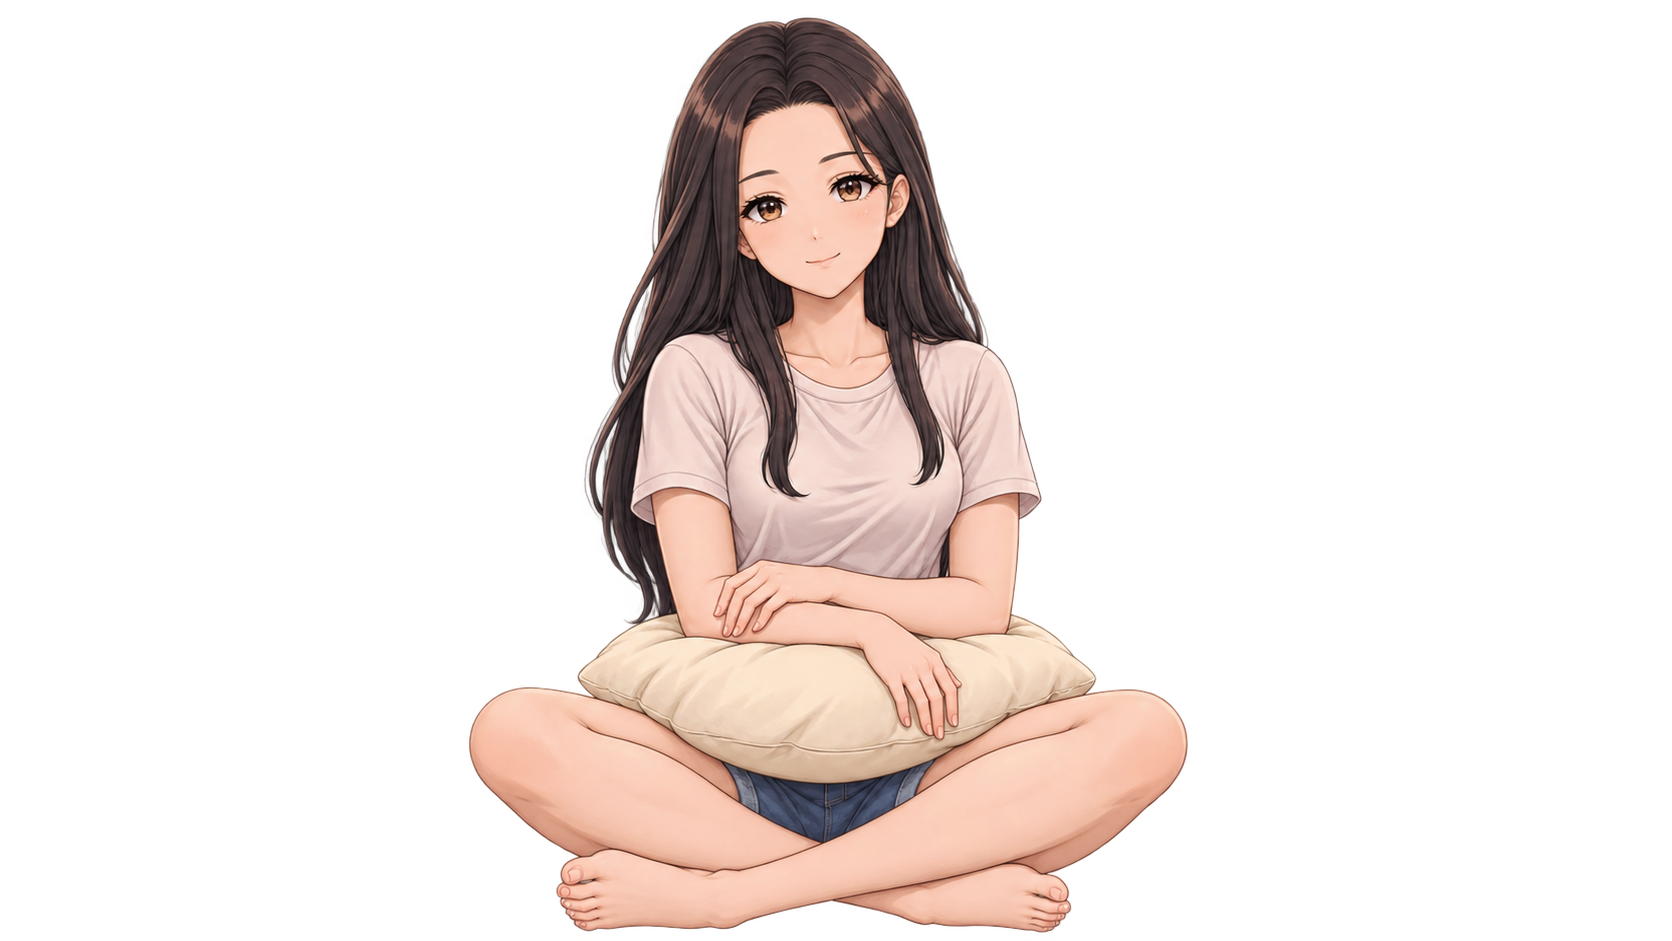
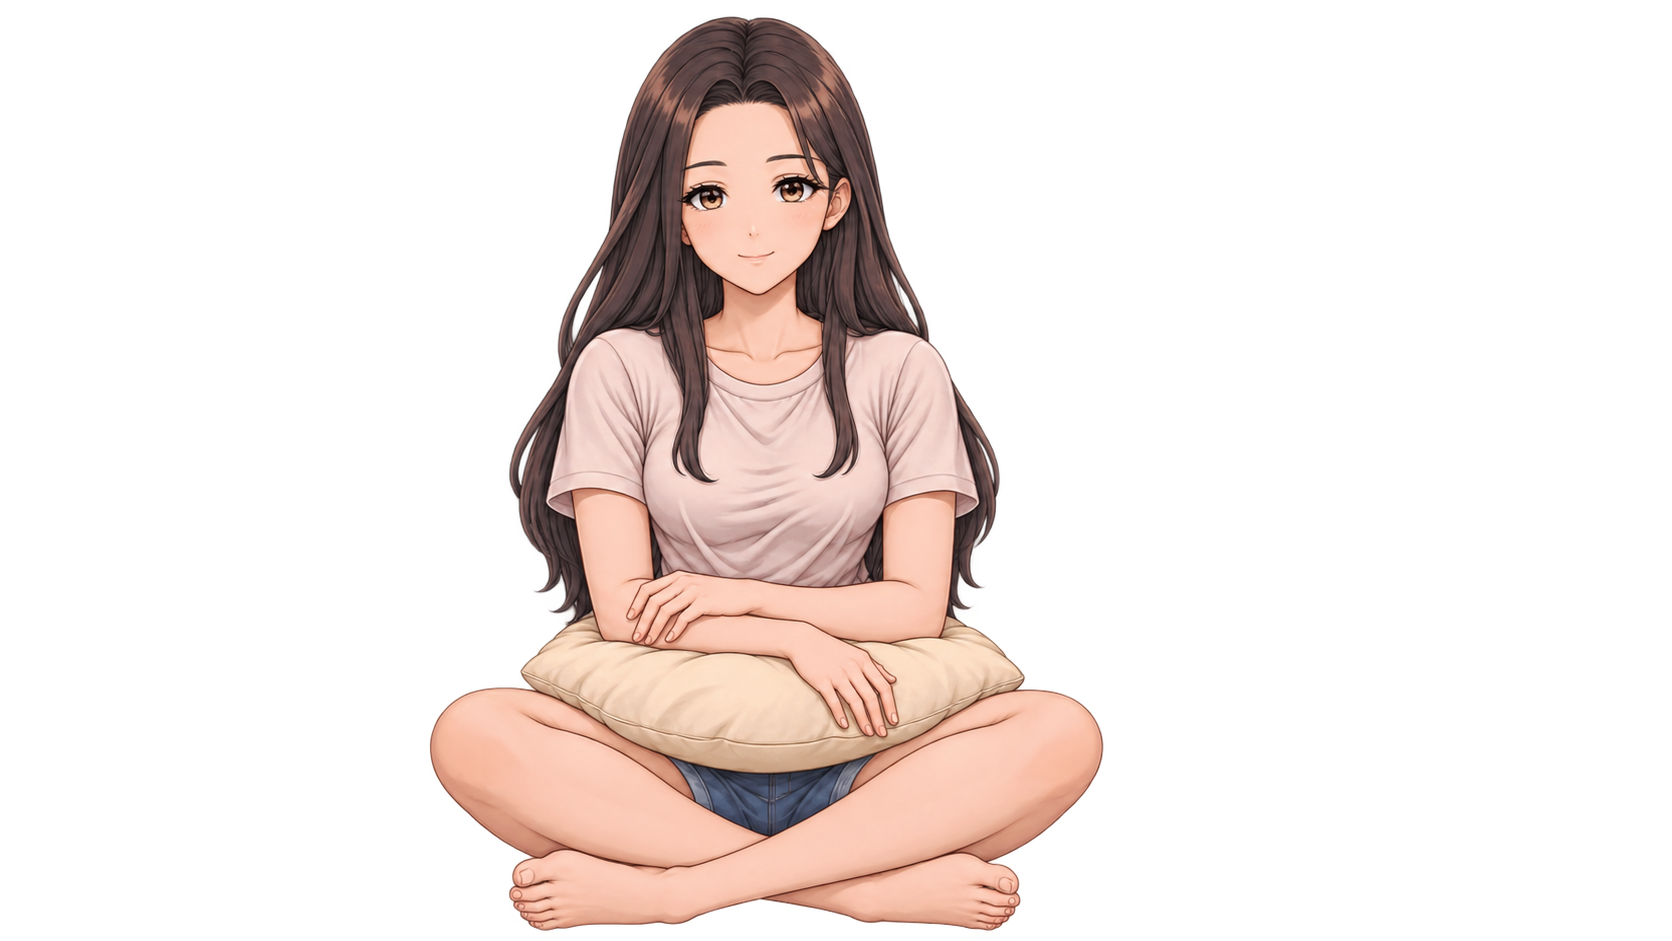
Refine floor sitting pose and expressions

Changed region(s): [[0.2488, 0.0, 0.7153, 1.0]]

diff --git a/public/char.js b/public/char.js
@@ -29,7 +29,7 @@ export const LOOKS = [
 ];
 const FACE_LAYOUTS = {
   "looks/floor-cheek": { blinkOrigin: [590, 155], blinkRects: [[590, 175, 72, 60], [680, 155, 75, 65]] },
-  "looks/floor-rest": { blinkOrigin: [725, 155], blinkRects: [[725, 180, 70, 60], [810, 155, 75, 70]] },
+  "looks/floor-rest": { blinkOrigin: [665, 170], blinkRects: [[665, 175, 78, 65], [755, 170, 65, 65]] },
   "looks/default": {
     blinkOrigin: [430, 220], blinkRects: [[430, 245, 105, 80], [548, 220, 105, 83]],
     blinkPolygons: [

diff --git a/AGENTS.md b/AGENTS.md
@@ -1,0 +1,5 @@
+# Artwork workflow
+
+- Update or create a line drawing before generating artwork when its composition, pose, or other structure needs to change. Let the user review it before generating, unless they explicitly request both steps together.
+- Use the approved line drawing as the composition reference. Keep the desk clock as a separate interactive layer unless the user requests otherwise.
+- Generate emotion expressions as complete sprites using the selected neutral sprite and expression line drawing as references. Use a local patch only for blinking: generate multiple independent candidates, compare eye alignment and changes to eyebrows and hair, then apply only the eye areas with a soft edge. Check for remaining open-eye lashes, shifted hair or brows, seams, and flicker in the actual page before calling it done. Use lossless WebP for character sprites and keep established asset names.
